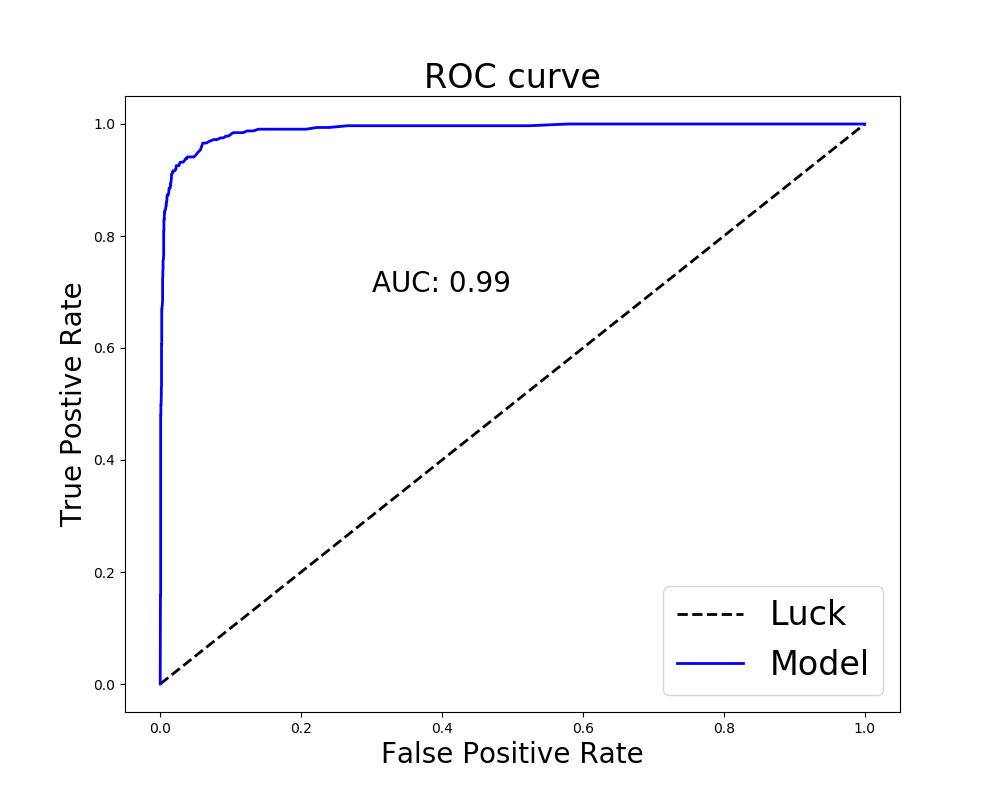
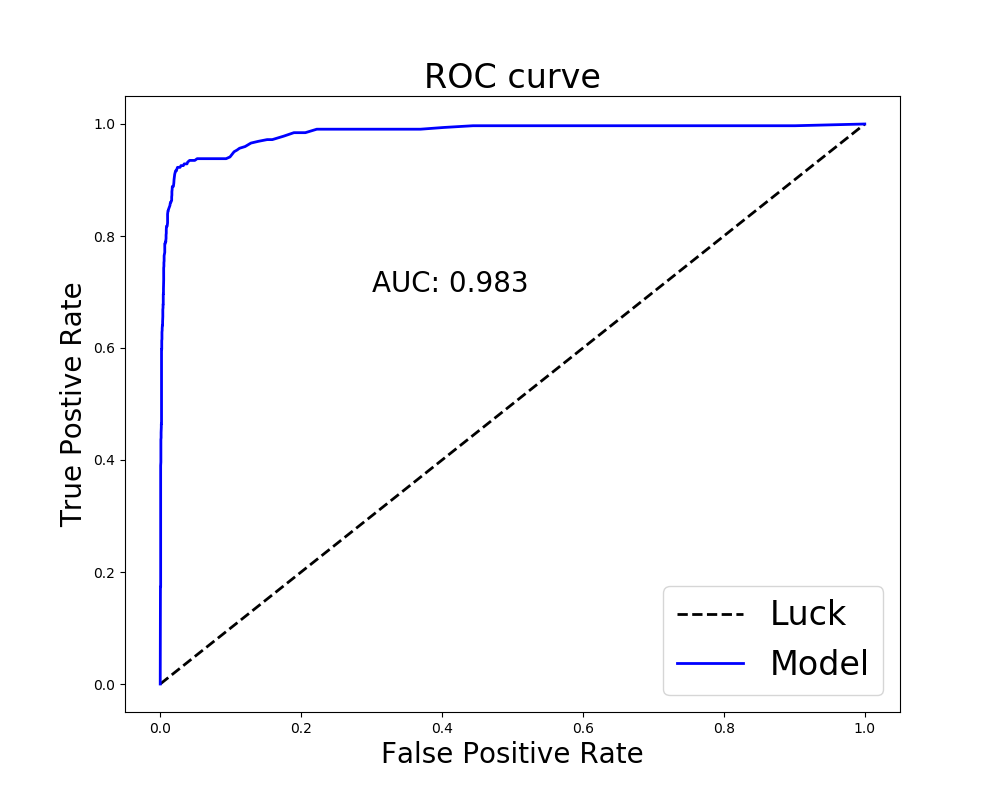
final

diff --git a/src/feature_engineering.py b/src/feature_engineering.py
@@ -71,7 +71,7 @@ def clean_pipeline(original_df):
     df = original_df.copy()
     if 'acct_type' in df.columns:
         df['target'] = df['acct_type'].apply(is_fraud)
-    df['description'] = df['description'].apply(remove_html_tags)
+    # df['description'] = df['description'].apply(remove_html_tags)
     df['domain_country_code'] = df['email_domain'].apply(get_domain_country_code)
     df['previous_payouts'] = df['previous_payouts'].apply(prev_payout_bool)
     df['suspicious_age'] = df['user_age'].apply(suspicious_age)
@@ -119,7 +119,8 @@ def clean_pipeline(original_df):
         "venue_address",
         # maybe mess with this
         "ticket_types",
-        "payee_name"
+        "payee_name",
+        "num_order"
     ]
 
     df.drop(labels=drop_cols, axis=1, inplace=True, errors='ignore')

diff --git a/src/feat_importance.py b/src/feat_importance.py
@@ -22,4 +22,5 @@ important_features = pd.Series(data=importances,index=feature_names)
 important_features.sort_values(ascending=False,inplace=True)
 important_features.nlargest(15).plot(kind = 'barh')
 plt.title("Top 15 important features")
-plt.savefig('feat_import.png')
+plt.savefig('images/feat_import.png')
+print(important_features.nlargest(15))

diff --git a/readme.md b/readme.md
@@ -4,87 +4,116 @@
 <p>
 
 # Fraud Case Study
-As the world is getting more dependent on electronic forms of payment, unfortunately the rate of fraudulent charges are increasing as well. Fraudlent charges cost money and time and result in frustration for both the company and the consumer. With a model our team built, we are able to predict with very high accuracy whether an incoming charge will be fradulent or not based on many factors, so we can prevent the fraudulent transfer of funds before the transaction takes place.
+As the world is getting more dependent on electronic forms of payment, unfortunately the rate of fraudulent charges are increasing as well. Fraudulent charges cost money and time and result in frustration for both the company and the consumer. With a model our team built, we are able to predict whether an incoming charge will be fraudulent or not based on many factors, so we can prevent the posting of a fraudulent event before people purchase tickets.
 
 ## Data and Cleaning
-Numerous features were dropped for various reasons. <br/>
-Assumed not to have significant relevance to Fraud and/or would have to be one hot encoded into too many columns: <br/>
-Venue State,Venue name, Has_header, sale_duration, sale_duration2, Venue_latitude, Venue longitude, Venue address*, name_length*, name, object_id, listed, num_payouts* (maybe tfidf, org_desc, ticket_types
 
-* Asterisk indicates feature may be reconsidered in the future
-
-Unclear what data represents and no clear distinction in target value:
-gts, approx_payout_date, user_created
-
-Feature Engineering:<br/>
-User Age - Changed to binary - 0 or not <br/>
-event_end, event_start, event_published, event_created - Changed into event length <br/>
-Email Domain - Used as country code <br/>
-Org Name - Converted to binary : Whether it had an organization name or not <br/>
-Payee name - Whether a name is specified or not <br/>
-User type - converted to binary, whether 1 or not (highly correlated with fraud) <br/>
-Venue country, country - Converted to binary, whether the same or not
-
-## Text Processing Pipeline
-
-## EDA
 <p>
 <img src="images/barsfraudvsnotfraud.png" width="600">
 <p>
 
-Feature usefullness? Why drop?
-Plots of features? I will put that
+The following fields were dropped due to little correlation with fraud:
+* venue_state
+* venue_name
+* has_header
+* venue_latitude (refeaturized)
+* venue_longitude
+* venue_address*
+* name_length*
+* name
+* object_id
+* listed
+* user_created
+* num_payouts*
+* org_desc*
+* ticket_types*
+
+\* Asterisk indicates feature may be reconsidered in the future
+
+The following fields were dropped due to concerns they may be unavailable at time of prediction:
+* gts
+* approx_payout_date
+* num_order
+* sale_duration
+* sale_duration2
+
+Feature Engineering:
+* user_age - Converted to binary : 0 or not 
+* event_end, event_start - Changed into event length
+* email_domain - Extracted as country code : One-hot encoded
+* org_name - Converted to binary : Whether it had an organization name listed or not
+* payee_name - Converted to binary : Exists or not
+* user_type - Converted to binary : whether 1 or not (highly correlated with fraud)
+* venue_country, country - Converted to binary : Do they match?
+* org_twitter- Converted to binary : 0 or not
+* org_facebook - Converted to binary : 0 or not
+* previous_payouts - Converted to binary : empty list or not
+* payout_type  - One hot encoded : CHECK, ACH, None
+* venue_latitude - Converted to binary : whether lat/long coordinates were listed and non-zero
+* description - TFIDF matrix
 
 ## Results
+
+### Model
+
+We initially started with a random forest model because we expected it to be a solid baseline. Given the time constraints we wanted something that we could get up and running quickly. The initial results were promising so we used RandomizedSearchCV to find more optimal hyperparameters.
+
+Random Forest HyperParameters:
+* n_estimators': 368
+* min_samples_split': 2
+
+These parameters resulted in an AUC of `0.983`.
+
 <p>
 <img src="images/rf_roc.png" width="600">
 <p>
 
-Used random forest model because...
-(Provide link to app when ready)
+### Performance Metrics
+We tuned and evaluated our model with the assumption that when we predict an event as fraud, there is a system in place to reach out to the event organizer via email and ask them to provide more information about their event.
 
-Deploying flask-
-    Got AWS Instance created, 
-    Docker image built 
-        - having truoble with dockerfile and getting app to run through docker/AWS, 
-        - example file doesn't seem to work, keeps timing out, don't understand register URL
-    
-# {'classifier__n_estimators': 368, 'classifier__min_samples_split': 2, 'classifier__min_samples_leaf': 1, 'classifier__max_features': 'sqrt', 'classifier__max_depth': None, 'classifier__bootstrap': False}
-# len(df['previous_payouts'][1]) == 0
-# no previous payouts, suspicious
+This assumption implies it is a relatively low-cost to incorrectly flag an event as fraudulent. For this reason, we chose to evaluate our model with **recall**, airing on the side of predicting fraud.
 
-# user age = 0 or <100
-#some outliers with 800+
+With this assumption in mind, we ended up choosing a prediction threshold of **0.15**, meaning if we predicted a probability of fraud greater than or equal to 0.15, we classified it as fraud.
 
-# user type
-# 70% fraud events user type =1
-# 25% all events user type =1
+|            	| Precision 	| Recall 	| F-1   	|
+|------------	|-----------	|--------	|-------	|
+| Fraud      	| 0.766     	| 0.923  	| 0.837 	|
+| Not-Fraud  	| 0.992     	| 0.972  	| 0.982 	|
+| Macro Avg. 	| 0.879     	| 0.947  	| 0.909 	|
+
+Accuracy: `0.967`
+
+### Confusion Matrix
+|                  	| pred:fraud 	| pred:not_fraud 	|
+|------------------	|------------	|----------------	|
+| actual:fraud     	| 298        	| 25             	|
+| actual:not_fraud 	| 91        	| 3171           	|
+
+Out of 323 actual fraud cases in our test set, we correctly identified 298 of them.
+
+Out of 3,262 actual non-fraud cases, we incorrectly identified 91 of them as fraud.
 
 
-{'classifier__n_estimators': 368, 'classifier__min_samples_split': 2, 'classifier__min_samples_leaf': 1,
-    'classifier__max_features': 'sqrt', 'classifier__max_depth': None, 'classifier__bootstrap': False}
+[Our
+Feature |  Importance |
+| ----------- | ----------- |
+|previous_payouts |     0.110899|
+|category__x2_    |     0.036462
+|num_order         |    0.032699
+|user              |    0.018988
+|has_org_name      |   0.017127
+|suspicious_age    |    0.015334
+|event_length  |        0.013162
+|body_length    |       0.010333
+|channels       |      0.009721
+|match_country   |      0.009071
+|category__x2_ACH  |    0.008448
+|has_coords         |   0.006938
+|org_facebook       |   0.0|06457
+|has_payee_name     |  0.006033
+|category__x2_CHECK    |0.006008
 
-#TODO
 
-
-        predict.py 
-            loads model, loads example(example.json), runs example through feature engineering pipeline,
-            adds columns from original training data to match the structure,gets probability of fraud,
-            makes prediction based on a specified threshold
-        
-        for each example calculate the probability of fraud and add to database along with event info
-        
-        '''
-    #WEB APP
-    '''
-        
-        Set up a route POST /score and have it execute the logic in your prediction script. 
-        You should import the script as a module and call functions defined therein. (predict.py)
-    There are two things we'll do to make this all more efficient:
-
-We only want to unpickle the model once
-We only want to connect to the database once.
-    '''
-
-Sources:
+[Our App](http://ec2-3-21-232-66.us-east-2.compute.amazonaws.com:8080/)
+ources:
 https://www.veridiancu.org/news/advice/fraud-101-credit-debit-security
